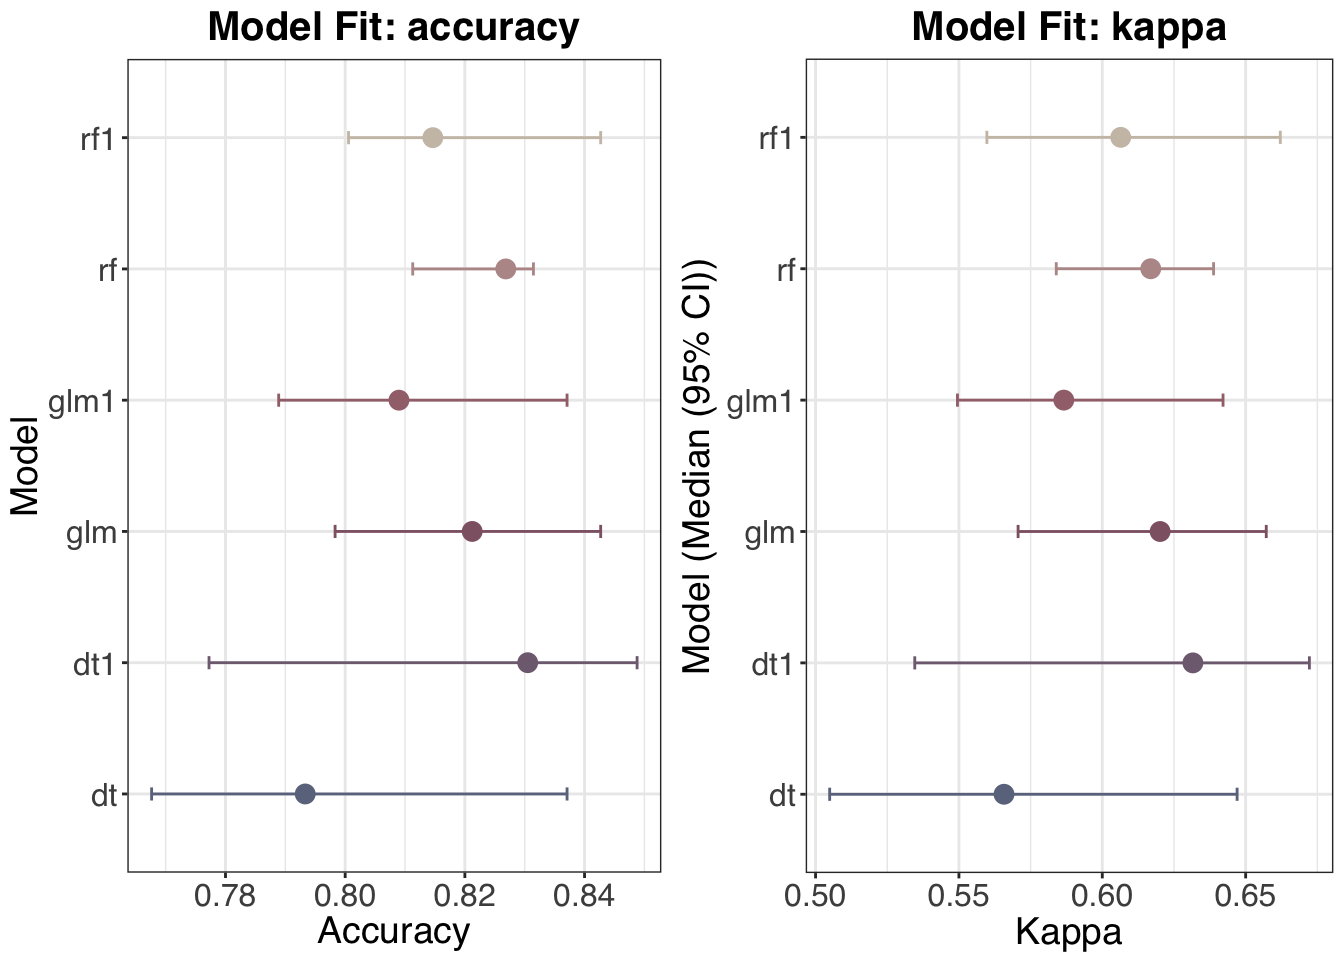
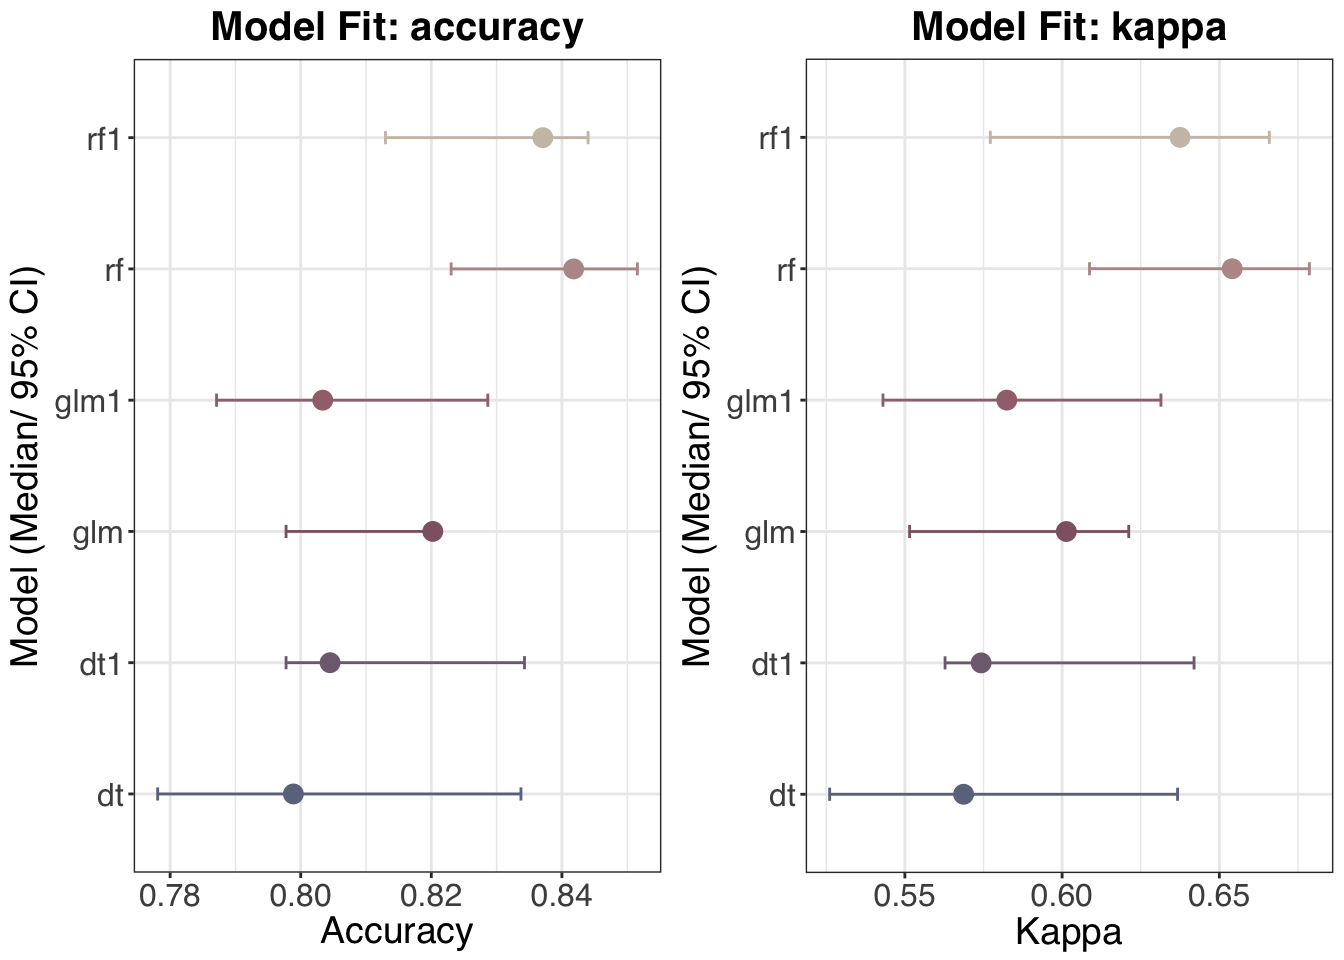
blog post titanic 3

diff --git a/tags/generalized-linear-model/index.html b/tags/generalized-linear-model/index.html
@@ -1,0 +1,246 @@
+<!DOCTYPE html>
+<html lang="en-us">
+<head><meta charset="utf-8">
+<meta http-equiv="X-UA-Compatible" content="IE=edge">
+<title>Generalized Linear Model</title>
+<meta name="description" content="Describe your website">
+<meta name="viewport" content="width=device-width, initial-scale=1">
+<meta name="robots" content="all,follow">
+<meta name="googlebot" content="index,follow,snippet,archive">
+<link rel="stylesheet" href="/css/bootstrap.min.css">
+<link rel="stylesheet" href="//fonts.googleapis.com/css?family=Roboto:400,300,700,400italic">
+<link rel="stylesheet" href="/css/font-awesome.min.css">
+<link rel="stylesheet" href="/css/owl.carousel.css">
+<link rel="stylesheet" href="/css/owl.theme.css">
+
+
+  <link href="/css/style.custom.css" rel="stylesheet" id="theme-stylesheet">
+
+ 
+
+  
+    <!--[if lt IE 9]>
+        <script src="https://oss.maxcdn.com/html5shiv/3.7.2/html5shiv.min.js"></script>
+        <script src="https://oss.maxcdn.com/respond/1.4.2/respond.min.js"></script>
+    <![endif]-->
+  
+
+
+<link href="/css/custom.css" rel="stylesheet">
+<link rel="shortcut icon" href="/img/favicon.png">
+
+  <link href="/tags/generalized-linear-model/index.xml" rel="alternate" type="application/rss+xml" title="Janina Brandes" />
+  <link href="/tags/generalized-linear-model/index.xml" rel="feed" type="application/rss+xml" title="Janina Brandes" />
+
+
+</head>
+<body>
+  <div id="all">
+      <div class="container-fluid">
+          <div class="row row-offcanvas row-offcanvas-left">
+              <div id="sidebar" class="col-xs-6 col-sm-4 col-md-3 sidebar-offcanvas">
+  <div class="sidebar-content">
+    <h1 class="sidebar-heading"><a href="/">Janina Brandes</a></h1>
+    
+      <p class="sidebar-p">I'm a dataacrobatic psychologist based in Hamburg.</p>
+    
+      <p class="sidebar-p">Let's begin to play.</p>
+    
+    <ul class="sidebar-menu">
+      
+      
+        <li><a href="/">Home</a></li>
+      
+        <li><a href="/about/">About</a></li>
+      
+        <li><a href="/blog/">Blog</a></li>
+      
+        <li><a href="/contact/">Get in touch</a></li>
+      
+    </ul>
+    <p class="social">
+  
+  
+  
+  <a href="https://twitter.com/BrandesJanina" data-animate-hover="pulse" class="external twitter">
+    <i class="fa fa-twitter"></i>
+  </a>
+  
+  
+  
+  <a href="mailto:dataacrobatic@gmail.com" data-animate-hover="pulse" class="email">
+    <i class="fa fa-envelope"></i>
+  </a>
+  
+  
+  
+  
+  <a href="https://github.com/dataacrobatic" data-animate-hover="pulse">
+    <i class="fa fa-github"></i>
+  </a>
+  
+</p>
+
+
+    <div class="copyright">
+      <p class="credit">
+        
+          &copy;2017 Janina Brandes
+        
+        | Template by <a href="https://bootstrapious.com/free-templates" class="external">Bootstrapious.com</a>
+
+&amp; ported to Hugo by <a href="https://github.com/kishaningithub">Kishan B</a>
+
+      </p>
+    </div>
+  </div>
+</div>
+
+              
+<div id="sidebar" class="col-xs-6 col-sm-4 col-md-3 sidebar-offcanvas">
+  <div class="sidebar-content">
+    <h1 class="sidebar-heading"><a href="/">Janina Brandes</a></h1>
+    
+      <p class="sidebar-p">I'm a dataacrobatic psychologist based in Hamburg.</p>
+    
+      <p class="sidebar-p">Let's begin to play.</p>
+    
+    <ul class="sidebar-menu">
+      
+      
+        <li><a href="/">Home</a></li>
+      
+        <li><a href="/about/">About</a></li>
+      
+        <li><a href="/blog/">Blog</a></li>
+      
+        <li><a href="/contact/">Get in touch</a></li>
+      
+    </ul>
+    <p class="social">
+  
+  
+  
+  <a href="https://twitter.com/BrandesJanina" data-animate-hover="pulse" class="external twitter">
+    <i class="fa fa-twitter"></i>
+  </a>
+  
+  
+  
+  <a href="mailto:dataacrobatic@gmail.com" data-animate-hover="pulse" class="email">
+    <i class="fa fa-envelope"></i>
+  </a>
+  
+  
+  
+  
+  <a href="https://github.com/dataacrobatic" data-animate-hover="pulse">
+    <i class="fa fa-github"></i>
+  </a>
+  
+</p>
+
+
+    <div class="copyright">
+      <p class="credit">
+        
+          &copy;2017 Janina Brandes
+        
+        | Template by <a href="https://bootstrapious.com/free-templates" class="external">Bootstrapious.com</a>
+
+&amp; ported to Hugo by <a href="https://github.com/kishaningithub">Kishan B</a>
+
+      </p>
+    </div>
+  </div>
+</div>
+
+<div class="col-xs-12 col-sm-8 col-md-9 content-column white-background col-main-fixedpos">
+  <div class="small-navbar visible-xs">
+  <button type="button" data-toggle="offcanvas" class="btn btn-ghost pull-left"> <i class="fa fa-align-left"> </i>Menu</button>
+  <h1 class="small-navbar-heading"><a href="/">Janina Brandes</a></h1>
+</div>
+
+  <div class="row">
+    <div class="col-lg-8">
+      <div class="content-column-content" id="blog-listing-medium">
+         <h1>Generalized Linear Model</h1>
+
+         
+
+
+         
+
+
+          
+          
+          <section class="post">
+              <div class="row">
+                  <div class="col-md-4">
+                    <div class="image">
+                        <a href="/blog/bloglessonsfromasinkingship/">
+                            
+                            <img src="/blog/ship.jpg" class="img-responsive" alt="">
+                            
+                        </a>
+                    </div>
+                  </div>
+                  <div class="col-md-8">
+                      <h2><a href="/blog/bloglessonsfromasinkingship/">Lessons from a sinking ship</a></h2>
+                      <div class="clearfix">
+                          <p class="author-category">
+                            
+                            By <a href="../about/">Janina Brandes</a>
+                            
+                            
+
+                          </p>
+                          <p class="date-comments">
+                              <a href="/blog/bloglessonsfromasinkingship/"><i class="fa fa-calendar-o"></i> August 17, 2017</a>
+                          </p>
+                      </div>
+                      <p class="intro">
+                       
+                          Playing around with the Titanic data from Kaggle.
+                       </p>
+
+
+
+                      <p class="read-more"><a id="amber-btn" href="/blog/bloglessonsfromasinkingship/" class="btn btn-template-main">Continue reading</a>
+                      </p>
+                  </div>
+              </div>
+          </section>
+          
+
+          <ul class="pager">
+              
+              <li class="previous disabled"><a href="#">&larr; Newer</a></li>
+              
+
+              
+              <li class="next disabled"><a href="#">Older &rarr;</a></li>
+              
+          </ul>
+
+
+      </div>
+    </div>
+  </div>
+</div>
+
+          </div>
+      </div>
+  </div>
+  <script src="/js/jquery.min.js"></script>
+<script src="/js/bootstrap.min.js"></script>
+<script src="/js/jquery.cookie.js"> </script>
+<script src="/js/ekko-lightbox.js"></script>
+<script src="/js/jquery.scrollTo.min.js"></script>
+<script src="/js/masonry.pkgd.min.js"></script>
+<script src="/js/imagesloaded.pkgd.min.js"></script>
+<script src="/js/owl.carousel.min.js"></script>
+<script src="/js/front.js"></script>
+
+</body>
+</html>

diff --git a/blog/bloglessonsfromasinkingship/index.html b/blog/bloglessonsfromasinkingship/index.html
@@ -423,7 +423,7 @@ trainN &lt;- predict(normPar,train)</code></pre>
 <p>Create model fitting control parameters so that they are are always the same for each model and we can compare the results.</p>
 <pre class="r"><code>control &lt;- trainControl(method = &quot;cv&quot;, number = 10, repeats = 10, 
                         verboseIter = TRUE)</code></pre>
-<p>Run three different models: a random forest, a logistic regression, and a decision tree. Notations differ a bit depending on the underlying package that is called by caret. First, run full versions including the imputed “Deck” variable, then versions excluding “Deck”.</p>
+<p>Run three different models: a random forest, a generalized linear model, and a decision tree. Notations differ a bit depending on the underlying package that is called by caret. First, run full versions including the imputed “Deck” variable, then versions excluding “Deck”.</p>
 <pre class="r"><code># full.
 rf &lt;- train(getFeatFull(trainN), trainN$Survived, method = &quot;ranger&quot;,
             trControl = control, importance = &quot;impurity&quot;, tuneLength=15)
@@ -461,11 +461,11 @@ plotImp &lt;- function(caretModel, modelName) {
 # plot predictor importance for the full models.
 plotImp(rf, modelName = &quot;random forest&quot;)</code></pre>
 <p><img src="/blog/blogLessonsFromASinkingShip_files/figure-html/unnamed-chunk-31-1.png" width="672" /></p>
-<pre class="r"><code>plotImp(glm, modelName = &quot;logistic regression&quot;)</code></pre>
+<pre class="r"><code>plotImp(glm, modelName = &quot;generalized linear model&quot;)</code></pre>
 <p><img src="/blog/blogLessonsFromASinkingShip_files/figure-html/unnamed-chunk-31-2.png" width="672" /></p>
 <pre class="r"><code>plotImp(dt, modelName = &quot;decision tree&quot;)</code></pre>
 <p><img src="/blog/blogLessonsFromASinkingShip_files/figure-html/unnamed-chunk-31-3.png" width="672" /></p>
-<p>Looks like there’s some differences in how the predictors are weighted. Note that we get the importance of each factor level from the logistic regression. But, consistent with the impression from the raw data, “Sex”, “Age” and “Family Size” seem to be relevant predictors for “Survival”, but others contribute as well (e.g., “Fare”).</p>
+<p>Looks like there’re quite some differences in how the predictors are weighted. Note that we get the importance of each factor level from the generalized linear model. But, consistent with the impression from the raw data, “Sex”, “Age” and “Family Size” seem to be relevant predictors for “Survival”, but others contribute as well (e.g., “Fare”).</p>
 <p>But which model fits best? For that, we’ll look at two parameters. Accuracy, that is, if we generate new data using our model, how well can we predict the Survival in the new data? Accuracy can be biased if classes are not perfectly balanced. To be on the safe side, we’ll also look at Kappa, as it also takes into account the expected error rate. They end up looking pretty much the same, so we’re fine.</p>
 <pre class="r"><code># preparations: create a list of models
 models &lt;- list(rf = rf, glm = glm, dt = dt, rf1 = rf1, glm1 = glm1, dt1 = dt1)
@@ -488,7 +488,7 @@ dotPlotAcc &lt;- ggplot(accOut, aes(Model, Median, colour=Model)) +
   coord_flip() +
   customThemeCol(type = &quot;colour&quot;, nCol=length(levels(accOut$Model))) +
   theme(legend.position=&quot;none&quot;) +
-  labs(x=&quot;Model&quot;, y=&quot;Accuracy&quot;, title=paste(&quot;Model Fit: accuracy&quot;, sep=&quot;&quot;)) 
+  labs(x=&quot;Model (Median/ 95% CI)&quot;, y=&quot;Accuracy&quot;, title=paste(&quot;Model Fit: accuracy&quot;, sep=&quot;&quot;)) 
 
 dotPlotKappa &lt;- ggplot(kappaOut, aes(Model, Median, colour=Model)) +
   geom_point(size = 3) +
@@ -496,7 +496,7 @@ dotPlotKappa &lt;- ggplot(kappaOut, aes(Model, Median, colour=Model)) +
   coord_flip() +
   customThemeCol(type = &quot;colour&quot;, nCol=length(levels(kappaOut$Model))) +
   theme(legend.position=&quot;none&quot;) +
-  labs(x=&quot;Model (Median (95% CI))&quot;, y=&quot;Kappa&quot;, title=paste(&quot;Model Fit: kappa&quot;, sep=&quot;&quot;)) 
+  labs(x=&quot;Model (Median/ 95% CI)&quot;, y=&quot;Kappa&quot;, title=paste(&quot;Model Fit: kappa&quot;, sep=&quot;&quot;)) 
 
 grid.arrange(dotPlotAcc, dotPlotKappa, ncol = 2)</code></pre>
 <p><img src="/blog/blogLessonsFromASinkingShip_files/figure-html/unnamed-chunk-32-1.png" width="672" /></p>

diff --git a/tags/generalized-linear-model/page/1/index.html b/tags/generalized-linear-model/page/1/index.html
@@ -1,0 +1,1 @@
+<!DOCTYPE html><html><head><title>/tags/generalized-linear-model/</title><link rel="canonical" href="/tags/generalized-linear-model/"/><meta name="robots" content="noindex"><meta http-equiv="content-type" content="text/html; charset=utf-8" /><meta http-equiv="refresh" content="0; url=/tags/generalized-linear-model/" /></head></html>
